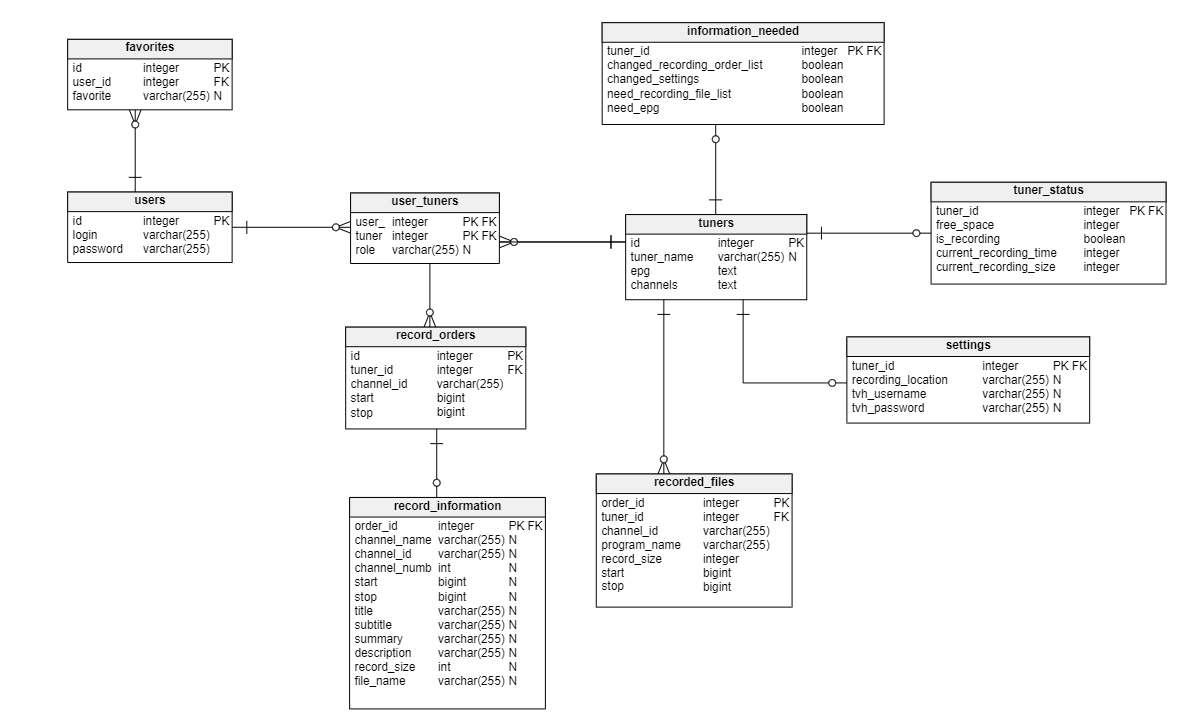
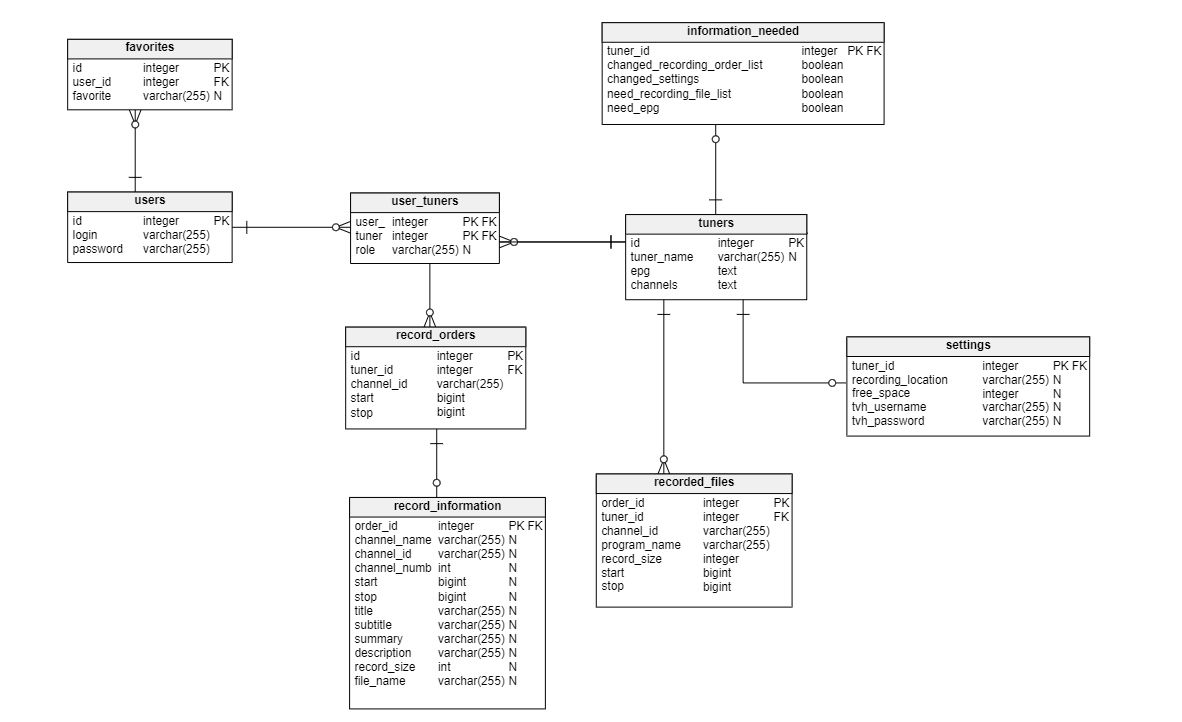
Changed db structure settings+status

Changed region(s): [[0.7614, 0.2438, 1.0, 0.3961], [0.7005, 0.518, 0.9137, 0.6094]]

diff --git a/src/api/settings.py b/src/api/settings.py
@@ -9,7 +9,7 @@ class SettingsAPI:
         self.heartbeat = heartbeat_api
 
     def get_settings(self, id):
-        query = """SELECT recording_location, tvh_username, tvh_password 
+        query = """SELECT recording_location, free_space, tvh_username, tvh_password 
             FROM settings
             WHERE tuner_id = %s"""
         args = [id]
@@ -26,15 +26,16 @@ class SettingsAPI:
             return Response("Something went wrong", status=500)
 
     def post_settings(self, id, settings):
-        query = """INSERT INTO settings(tuner_id, recording_location, tvh_username, tvh_password)
-            VALUES(%s, %s, %s, %s)
+        query = """INSERT INTO settings(tuner_id, recording_location, free_space, tvh_username, tvh_password)
+            VALUES(%s, %s, %s, %s, %s)
             ON CONFLICT(tuner_id)
             DO
-                UPDATE SET (recording_location, tvh_username, tvh_password)
-                = (EXCLUDED.recording_location, EXCLUDED.tvh_username, EXCLUDED.tvh_password)"""
+                UPDATE SET (recording_location, free_space, tvh_username, tvh_password)
+                = (EXCLUDED.recording_location, EXCLUDED.free_space, EXCLUDED.tvh_username, EXCLUDED.tvh_password)"""
         args = [
             id,
             settings.recording_location,
+            settings.free_space,
             settings.tvh_username,
             settings.tvh_password,
         ]

diff --git a/app.py b/app.py
@@ -6,7 +6,6 @@ from src.database.db_model import (
     Orders,
     Channel,
     EPG,
-    TunerStatus,
     Settings,
     RecordedFiles,
 )
@@ -15,7 +14,6 @@ from src.api import (
     orders,
     channels,
     epg,
-    status,
     recorded,
     settings,
     tuner,
@@ -39,8 +37,7 @@ channels_api = channels.ChannelsAPI(db_manager)
 orders_api = orders.OrdersAPI(db_manager, channels_api, heartbeat_api)
 settings_api = settings.SettingsAPI(db_manager, heartbeat_api)
 epg_api = epg.EpgAPI(db_manager, heartbeat_api)
-status_api = status.StatusAPI(db_manager)
-recorded_api = recorded.RecordedAPI(db_manager)
+recorded_api = recorded.RecordedAPI(db_manager, heartbeat_api)
 tuner_api = tuner.TunerAPI(db_manager)
 favorites_api = favorites.FavoritesAPI(db_manager)
 api_executor = api_ex.APIExecutor(JsonConverter)
@@ -174,19 +171,6 @@ def post_epg():
 @auth.login_required
 def get_epg():
     return api_executor.execute_function(epg_api.get_epg, ["id"])
-
-
-# StatusAPI
-@app.route("/status", methods=["POST"])
-@auth.login_required
-def post_status():
-    return api_executor.execute_function(status_api.post_status, ["id"], TunerStatus)
-
-
-@app.route("/status", methods=["GET"])
-@auth.login_required
-def get_status():
-    return api_executor.execute_function(status_api.get_status, ["id"])
 
 
 # SettingsAPI

diff --git a/src/database/db_model.py b/src/database/db_model.py
@@ -45,24 +45,10 @@ class JsonConverter:
         return json_body
 
 
-class TunerStatus:
-    def __init__(
-        self,
-        free_space,
-        is_recording,
-        current_recording_time,
-        current_recording_size,
-        **kwargs
-    ):
-        self.free_space = free_space
-        self.is_recording = is_recording
-        self.current_recording_time = current_recording_time
-        self.current_recording_size = current_recording_size
-
-
 class Settings:
-    def __init__(self, recording_location, tvh_username, tvh_password, **kwargs):
+    def __init__(self, recording_location, free_space, tvh_username, tvh_password, **kwargs):
         self.recording_location = recording_location
+        self.free_space = free_space
         self.tvh_username = tvh_username
         self.tvh_password = tvh_password
 

diff --git a/src/api/recorded.py b/src/api/recorded.py
@@ -4,8 +4,9 @@ from src.database.db_model import RecordInformation
 
 
 class RecordedAPI:
-    def __init__(self, db_manager):
+    def __init__(self, db_manager, heartbeat_api):
         self.db_manager = db_manager
+        self.heartbeat = heartbeat_api
 
     def get_recorded(self, id):
         query = """SELECT ri.order_id,
@@ -45,6 +46,7 @@ class RecordedAPI:
         recorded_ids = [o.order_id for o in recorded]
         if not self.__remove_deleted_recorded(id, recorded_ids):
             return Response("Something went wrong", status=500)
+        self.heartbeat.ask_for_information(id, "changed_settings")
         for o in recorded:
             if self.__order_with_id_exists(o.order_id):
                 if not self.__recorded_exists(o.order_id):

diff --git a/README.md b/README.md
@@ -15,7 +15,6 @@
     |─ orders.py
     |─ recorded.py
     |─ settings.py
-    |─ status.py
     |─ tuner.py
   |─ auth/                 
     |─ auth.py
@@ -79,9 +78,6 @@ Currently avalible + planned endpoints
 | **EPG API**             |                        |       |                                                   |
 | `/epg`                  | id, body(EPG)          | POST  | post an EPG of a tuner                            | text
 | `/epg`                  | id                     | GET   | get an EPG of a tuner                             | [{EPG()}, {EPG()}, ..]
-| **Status API**          |                        |       |                                                   |
-| `/status`               | id, body(TunerStatus)  | POST  | post a status of a tuner                          | text
-| `/status`               | id                     | GET   | get a status of a tuner                           | {TunerStatus()}
 | **Settings API**        |                        |       |                                                   |
 | `/settings`             | id, body(Settings)     | POST  | post settings of a tuner                          | text
 | `/settings`             | id                     | GET   | get settings of a tuner                           | {Settings()}
